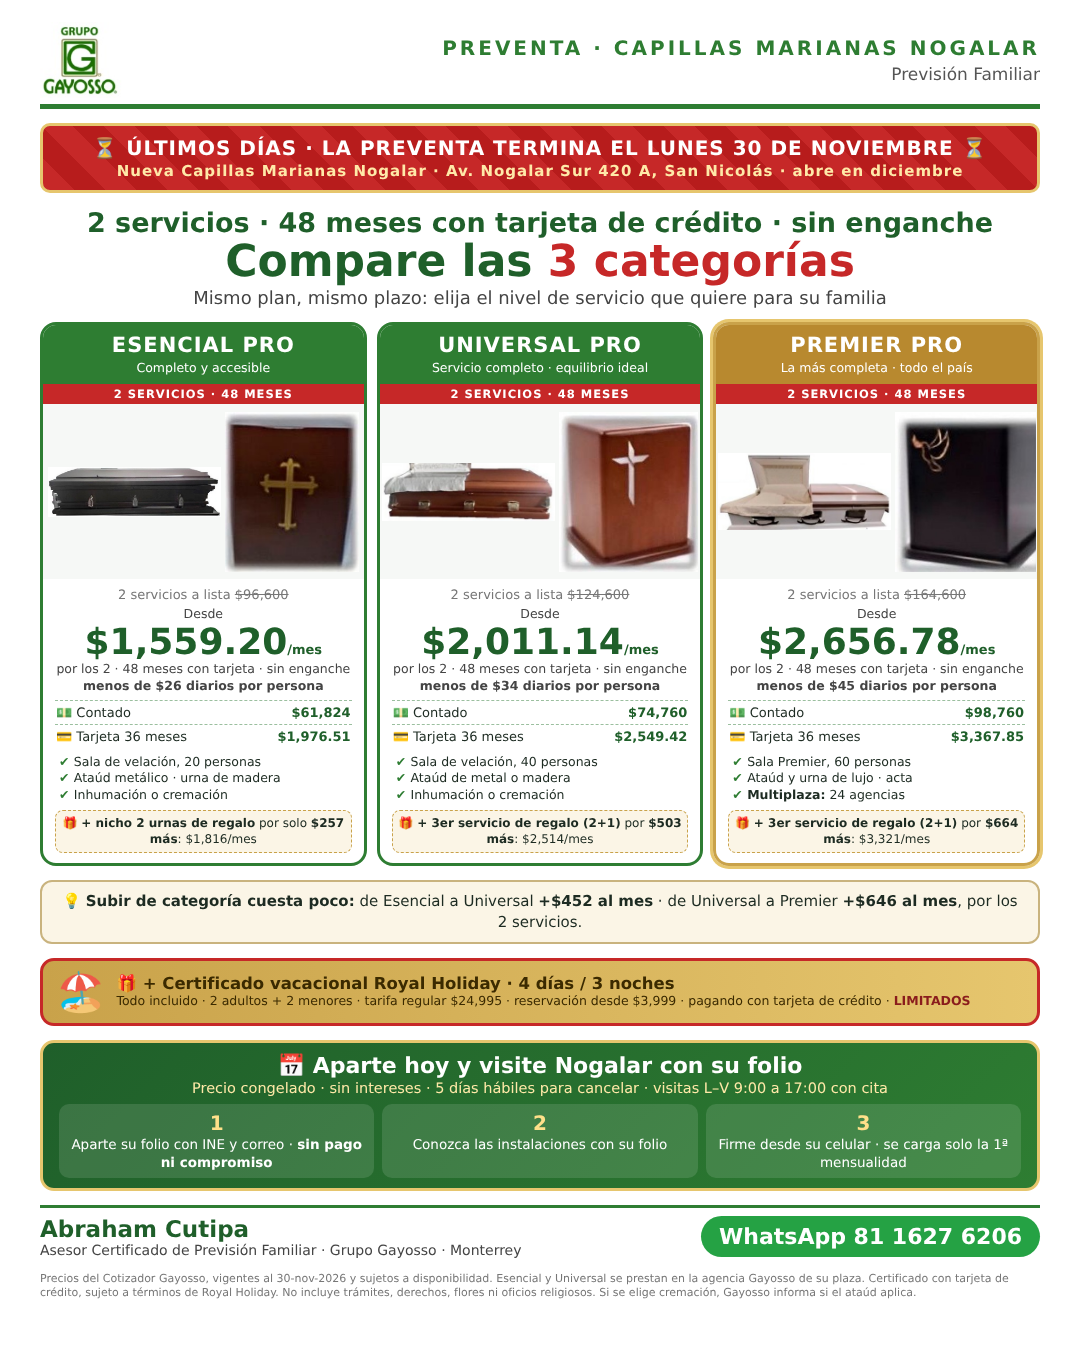
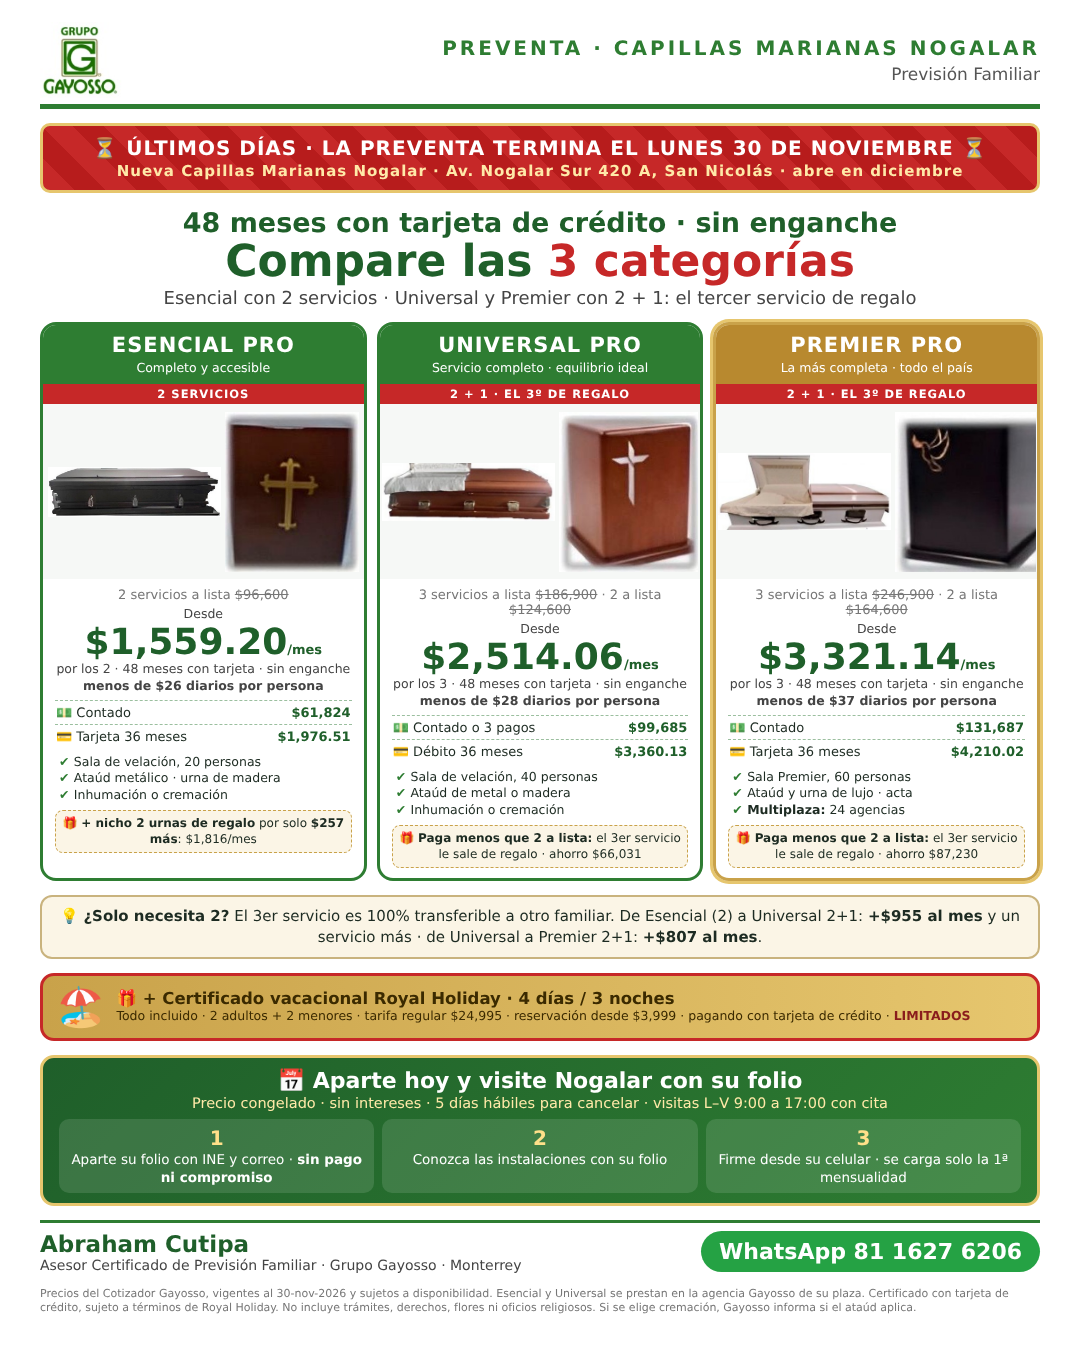
Corrige imagen 3 categorías: Universal y Premier en 2+1
Claude-Session: https://claude.ai/code/session_01PccRGVGwaaPKDitcWkgoNs

diff --git a/propuesta/nogalar_3categorias_2servicios_48.html b/propuesta/nogalar_3categorias_2servicios_48.html
@@ -108,30 +108,30 @@ body{width:1080px;height:1350px;font-family:"DejaVu Sans",Arial,sans-serif;backg
 </style></head><body><div class="wrap">
 <div class="top"><img src="logo.jpg"><div class="r"><div class="k">PREVENTA · CAPILLAS MARIANAS NOGALAR</div><div class="d">Previsión Familiar</div></div></div>
 <div class="rib">⏳ ÚLTIMOS DÍAS · LA PREVENTA TERMINA EL LUNES 30 DE NOVIEMBRE ⏳<small>Nueva Capillas Marianas Nogalar · Av. Nogalar Sur 420 A, San Nicolás · abre en diciembre</small></div>
-<div class="hero"><div class="a">2 servicios · 48 meses con tarjeta de crédito · sin enganche</div><div class="b" style="font-size:44px">Compare las <span>3 categorías</span></div><div class="c">Mismo plan, mismo plazo: elija el nivel de servicio que quiere para su familia</div></div>
-<div class="cols"><div class="col"><div class="h"><b>ESENCIAL PRO</b><span>Completo y accesible</span></div><div class="tag">2 SERVICIOS · 48 MESES</div>
+<div class="hero"><div class="a">48 meses con tarjeta de crédito · sin enganche</div><div class="b" style="font-size:44px">Compare las <span>3 categorías</span></div><div class="c">Esencial con 2 servicios · Universal y Premier con 2 + 1: el tercer servicio de regalo</div></div>
+<div class="cols"><div class="col"><div class="h"><b>ESENCIAL PRO</b><span>Completo y accesible</span></div><div class="tag">2 SERVICIOS</div>
   <div class="im"><img src="ataudes/iter_pax.jpg"><img src="ataudes/oblatio.jpg"></div>
   <div class="bd"><div class="l">2 servicios a lista <s>$96,600</s></div>
    <div class="s" style="margin-top:4px">Desde</div><div class="v">$1,559.20<i>/mes</i></div><div class="s">por los 2 · 48 meses con tarjeta · sin enganche<br><b>menos de $26 diarios por persona</b></div>
    <div class="row" style="margin-top:5px"><span>💵 Contado</span><b>$61,824</b></div>
    <div class="row"><span>💳 Tarjeta 36 meses</span><b>$1,976.51</b></div>
    <ul><li>Sala de velación, 20 personas</li><li>Ataúd metálico · urna de madera</li><li>Inhumación o cremación</li></ul>
-   <div class="up">🎁 <b>+ nicho 2 urnas de regalo</b> por solo <b>$257 más</b>: $1,816/mes</div></div></div><div class="col"><div class="h"><b>UNIVERSAL PRO</b><span>Servicio completo · equilibrio ideal</span></div><div class="tag">2 SERVICIOS · 48 MESES</div>
+   <div class="up">🎁 <b>+ nicho 2 urnas de regalo</b> por solo <b>$257 más</b>: $1,816/mes</div></div></div><div class="col"><div class="h"><b>UNIVERSAL PRO</b><span>Servicio completo · equilibrio ideal</span></div><div class="tag">2 + 1 · EL 3º DE REGALO</div>
   <div class="im"><img src="ataudes/legatum.jpg"><img src="ataudes/aural.jpg"></div>
-  <div class="bd"><div class="l">2 servicios a lista <s>$124,600</s></div>
-   <div class="s" style="margin-top:4px">Desde</div><div class="v">$2,011.14<i>/mes</i></div><div class="s">por los 2 · 48 meses con tarjeta · sin enganche<br><b>menos de $34 diarios por persona</b></div>
-   <div class="row" style="margin-top:5px"><span>💵 Contado</span><b>$74,760</b></div>
-   <div class="row"><span>💳 Tarjeta 36 meses</span><b>$2,549.42</b></div>
+  <div class="bd"><div class="l">3 servicios a lista <s>$186,900</s> · 2 a lista <s>$124,600</s></div>
+   <div class="s" style="margin-top:4px">Desde</div><div class="v">$2,514.06<i>/mes</i></div><div class="s">por los 3 · 48 meses con tarjeta · sin enganche<br><b>menos de $28 diarios por persona</b></div>
+   <div class="row" style="margin-top:5px"><span>💵 Contado o 3 pagos</span><b>$99,685</b></div>
+   <div class="row"><span>💳 Débito 36 meses</span><b>$3,360.13</b></div>
    <ul><li>Sala de velación, 40 personas</li><li>Ataúd de metal o madera</li><li>Inhumación o cremación</li></ul>
-   <div class="up">🎁 <b>+ 3er servicio de regalo (2+1)</b> por <b>$503 más</b>: $2,514/mes</div></div></div><div class="col g"><div class="h"><b>PREMIER PRO</b><span>La más completa · todo el país</span></div><div class="tag">2 SERVICIOS · 48 MESES</div>
+   <div class="up">🎁 <b>Paga menos que 2 a lista:</b> el 3er servicio le sale de regalo · ahorro $66,031</div></div></div><div class="col g"><div class="h"><b>PREMIER PRO</b><span>La más completa · todo el país</span></div><div class="tag">2 + 1 · EL 3º DE REGALO</div>
   <div class="im"><img src="ataudes/celesti.jpg"><img src="ataudes/pacis.jpg"></div>
-  <div class="bd"><div class="l">2 servicios a lista <s>$164,600</s></div>
-   <div class="s" style="margin-top:4px">Desde</div><div class="v">$2,656.78<i>/mes</i></div><div class="s">por los 2 · 48 meses con tarjeta · sin enganche<br><b>menos de $45 diarios por persona</b></div>
-   <div class="row" style="margin-top:5px"><span>💵 Contado</span><b>$98,760</b></div>
-   <div class="row"><span>💳 Tarjeta 36 meses</span><b>$3,367.85</b></div>
+  <div class="bd"><div class="l">3 servicios a lista <s>$246,900</s> · 2 a lista <s>$164,600</s></div>
+   <div class="s" style="margin-top:4px">Desde</div><div class="v">$3,321.14<i>/mes</i></div><div class="s">por los 3 · 48 meses con tarjeta · sin enganche<br><b>menos de $37 diarios por persona</b></div>
+   <div class="row" style="margin-top:5px"><span>💵 Contado</span><b>$131,687</b></div>
+   <div class="row"><span>💳 Tarjeta 36 meses</span><b>$4,210.02</b></div>
    <ul><li>Sala Premier, 60 personas</li><li>Ataúd y urna de lujo · acta</li><li><b>Multiplaza:</b> 24 agencias</li></ul>
-   <div class="up">🎁 <b>+ 3er servicio de regalo (2+1)</b> por <b>$664 más</b>: $3,321/mes</div></div></div></div>
-<div class="tip">💡 <b>Subir de categoría cuesta poco:</b> de Esencial a Universal <b>+$452 al mes</b> · de Universal a Premier <b>+$646 al mes</b>, por los 2 servicios.</div>
+   <div class="up">🎁 <b>Paga menos que 2 a lista:</b> el 3er servicio le sale de regalo · ahorro $87,230</div></div></div></div>
+<div class="tip">💡 <b>¿Solo necesita 2?</b> El 3er servicio es 100% transferible a otro familiar. De Esencial (2) a Universal 2+1: <b>+$955 al mes</b> y un servicio más · de Universal a Premier 2+1: <b>+$807 al mes</b>.</div>
 <div class="gift"><div class="i">🏖</div><div><div class="t">🎁 + Certificado vacacional Royal Holiday · 4 días / 3 noches</div><div class="s">Todo incluido · 2 adultos + 2 menores · tarifa regular $24,995 · reservación desde $3,999 · pagando con tarjeta de crédito · <b style="color:#8a1c1c">LIMITADOS</b></div></div></div>
 <div class="cita"><div class="t">📅 Aparte hoy y visite Nogalar con su folio</div><div class="s">Precio congelado · sin intereses · 5 días hábiles para cancelar · visitas L–V 9:00 a 17:00 con cita</div>
  <div class="stp"><div><b class="n">1</b>Aparte su folio con INE y correo · <b>sin pago ni compromiso</b></div><div><b class="n">2</b>Conozca las instalaciones con su folio</div><div><b class="n">3</b>Firme desde su celular · se carga solo la 1ª mensualidad</div></div></div>

diff --git a/CLAUDE.md b/CLAUDE.md
@@ -625,4 +625,4 @@ Sistema de trabajo y "Mi Fórmula Personal de Éxito" (llenar el 1° de cada mes
 - 2026-11-26 (verificado en el registro de actividad): a las 14:22 Monterrey se PAUSÓ el anuncio CALIENTE "Nicho de regalo Nogalar (fin 30 nov)" `120257719638220768` y a las 14:24 se subió el presupuesto de la FRÍA `120257101274550768` de $150 a $180/día (+20%, para no reiniciar aprendizaje), ambos por la cuenta del usuario vía ads MCP server (otra sesión). La campaña CALIENTE `120257101274740768` sigue ACTIVA a $250/día pero sin anuncios activos (no gasta). Ambas terminan el 30-nov 23:59 Monterrey. Regla para siguientes subidas: máximo +20% por cambio y espaciar ~48 h.
 - 2026-11-27: IMAGEN 3 COLUMNAS NOGALAR "Elija su plan: 2 o 3 servicios" (propuesta/servicios_nogalar_esencial2_2mas1.html/png/jpg): Esencial Pro 2 servicios (lista $96,600 → desde $1,559.20 TDC 48 · contado o 3 pagos $61,824 · TDC 36 $1,976.51 · upsell nicho de regalo desde $1,816 / $72,016) + Universal 2+1 ($2,514 TDC 48 · $99,685 · débito 36 $3,360.13) + Premier 2+1 ($3,321 · $131,687 · TDC 36 $4,210.02); certificado con TDC; preventa al 30-nov. TDC de Esencial y cifras 2+1 vienen de capturas GCM8 (Marianas): reconfirmar con claves de Nogalar antes del folio.
 - 2026-11-27: IMAGEN 1 ESENCIAL PRO PLAN AMBIVALENTE NOGALAR A 48 MESES TDC (propuesta/esencial1_ambivalente_nogalar_48.html/png/jpg): desde 48 × $877.05 (DERIVADO: total lista × 0.97 × 0.90 = $42,165.90, igual al total confirmado de débito 36; mensual × 0.0208, patrón validado en Premier 1 servicio, donde D048 total = DD36 total), ahorro $6,134; opciones contado $32,844, 12 meses $5,234.51 + 11 × $2,697.52, crédito 36 $1,111.79, débito 36 $1,172.21. Confirmar D048 de 827291 con captura antes del folio.
-- 2026-11-27: IMAGEN 3 CATEGORÍAS, 2 SERVICIOS A 48 MESES TDC, NOGALAR (propuesta/nogalar_3categorias_2servicios_48.html/png/jpg): Esencial 2 servicios 48 × $1,559.20 (contado $61,824; 36 m $1,976.51; upsell nicho de regalo +$257/mes → $1,816.24) · Universal 2 servicios 48 × $2,011.14 (contado $74,760; 36 m $2,549.42; upsell 2+1 +$503 → $2,514.06) · Premier 2 servicios 48 × $2,656.78 (contado $98,760; 36 m $3,367.85; upsell 2+1 +$664 → $3,321.14). Subir de categoría: Esencial→Universal +$452/mes, Universal→Premier +$646/mes. Universal 2 servicios DERIVADO (lista × 0.776 / 0.736 / 0.60): confirmar con captura. Esencial TDC y Premier 2 de capturas GCM8 (Marianas): reconfirmar con claves de Nogalar antes del folio.
+- 2026-11-27: IMAGEN 3 CATEGORÍAS A 48 MESES TDC, NOGALAR (propuesta/nogalar_3categorias_2servicios_48.html/png/jpg), CORREGIDA por el usuario: Universal y Premier van en 2+1 (no 2 servicios). Esencial 2 servicios 48 × $1,559.20 (contado $61,824; TDC 36 $1,976.51; upsell nicho de regalo +$257 → $1,816.24) · Universal 2+1 48 × $2,514.06 (contado o 3 pagos $99,685; débito 36 $3,360.13; ahorro $66,031) · Premier 2+1 48 × $3,321.14 (contado $131,687; TDC 36 $4,210.02; ahorro $87,230). Subir: Esencial 2 → Universal 2+1 +$955/mes (y un servicio más); Universal → Premier 2+1 +$807/mes. Cifras de capturas GCM8: reconfirmar con claves de Nogalar antes del folio.
